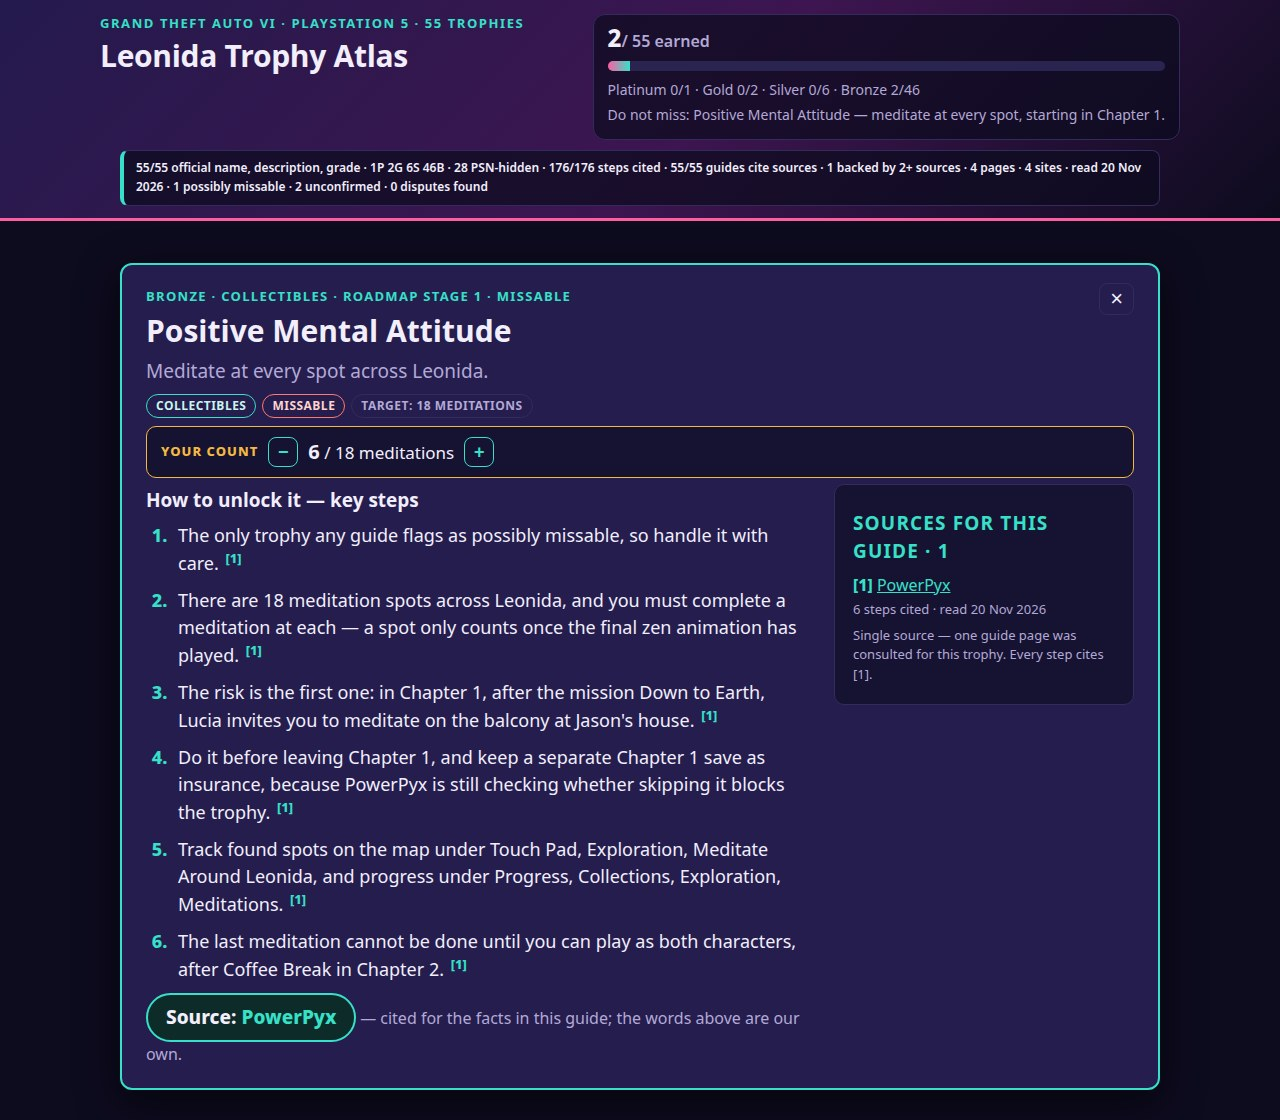
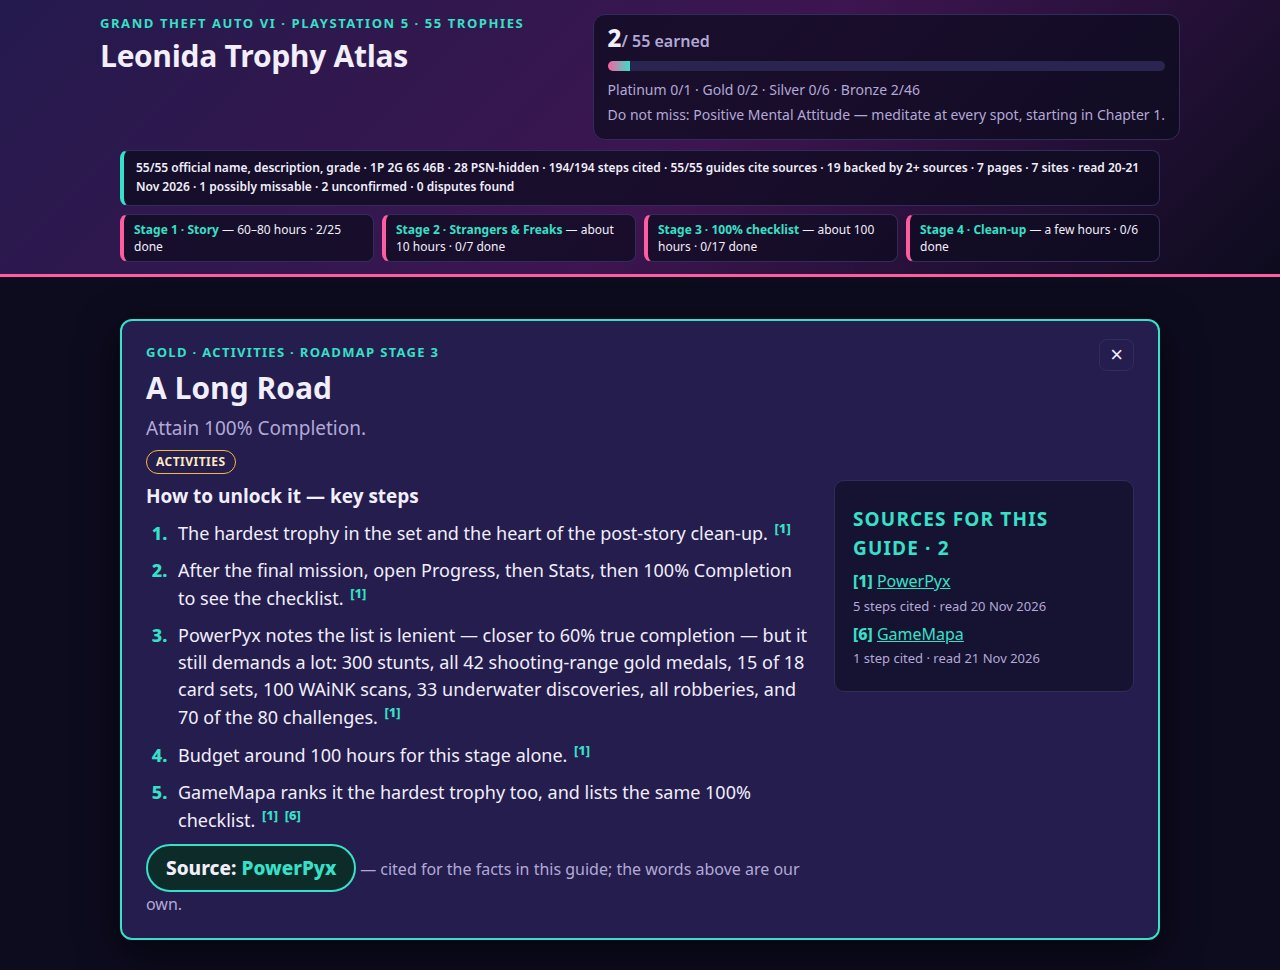
Leonida Trophy Atlas v4: 18 guides gain a verified second source, roadmap at a glance, phantom-counter fix

Changed region(s): [[0.0, 0.0309, 1.0, 0.9897], [0.0625, 0.0, 0.4062, 0.0928]]

diff --git a/app/src/app.js b/app/src/app.js
@@ -2,7 +2,7 @@
 // Loads app/data/trophies.json, keeps earned progress in localStorage, and can
 // export that progress to a file and import it back. No network at run time.
 
-import { renderRoadmap } from './roadmap.js';
+import { renderRoadmap, STAGES } from './roadmap.js';
 import { applyShotParams } from './shots.js';
 
 const DATA_URL = 'data/trophies.json';
@@ -21,11 +21,14 @@ const state = {
   openGuideId: null,
 };
 
-// The four guide pages this atlas draws on, numbered in the order they first
+// The seven guide pages this atlas draws on, numbered in the order they first
 // appear in trophies.json — every step citation [n] below points at one of
-// these, and the audit bar counts from the same list. Read 20 Nov 2026.
-const SITES = ['PowerPyx', 'Push Square', 'GTABase', 'KeenGamer'];
+// these, and the audit bar counts from the same list. The first four were
+// read 20 Nov 2026; the last three joined the atlas on 21 Nov 2026, each
+// checked to carry the full 55-trophy list before it was cited.
+const SITES = ['PowerPyx', 'Push Square', 'GTABase', 'KeenGamer', 'Insider Gaming', 'GameMapa', 'EGamers'];
 const READ_DATE = '20 Nov 2026';
+const READ_DATES = { 'Insider Gaming': '21 Nov 2026', GameMapa: '21 Nov 2026', EGamers: '21 Nov 2026' };
 
 const $ = (id) => document.getElementById(id);
 
@@ -55,10 +58,13 @@ function saveStore() {
 // trophy data itself, so the bar can never drift from what the atlas holds:
 // official names/descriptions/grades, grade split, hidden count, guide steps
 // (each step cites its source), guides with a source, guides naming two or
-// more of the four sites, distinct pages/sites read, the missable trophy,
+// more of the seven sites, distinct pages/sites read, the missable trophy,
 // guides that say their trigger is unconfirmed, and disagreements between
 // sources (none found — with one source per trophy there is nothing to
-// compare, and the bar says so instead of inventing a dispute).
+// compare, and the bar says so instead of inventing a dispute). Round 4:
+// a trophy counts as backed by 2+ sources when it carries a verified second
+// source of its own, or when its words name two sites; the pages and sites
+// tallies count second sources too, so the bar grows only where the data did.
 function splitSteps(guide) {
   return guide
     .split(/(?<=[.!?])\s+/)
@@ -87,12 +93,14 @@ function computeAudit() {
     if (t.hidden) hidden += 1;
     steps += splitSteps(t.guide).length;
     if (t.source && t.sourceUrl) withSource += 1;
-    if (sitesNamed(t.guide).length >= 2) twoPlus += 1;
+    if (t.source2 || sitesNamed(t.guide).length >= 2) twoPlus += 1;
     if (t.missable) missable += 1;
     if (/unconfirmed/i.test(t.guide)) unconfirmed += 1;
     if (/\bdisagree\w*\b/i.test(t.guide) || /\bconflict\w*\b/i.test(t.guide)) disputes += 1;
     pages.add(t.sourceUrl);
+    if (t.source2Url) pages.add(t.source2Url);
     sites.add(t.source);
+    if (t.source2) sites.add(t.source2);
   }
   return {
     total: state.trophies.length,
@@ -119,12 +127,25 @@ function renderAudit() {
     `${a.withSource}/${a.total} guides cite sources`,
     `${a.twoPlus} backed by 2+ sources`,
     `${a.pages} pages · ${a.sites} sites`,
-    `read ${READ_DATE}`,
+    `read 20-21 Nov 2026`,
     `${a.missable} possibly missable`,
     `${a.unconfirmed} unconfirmed`,
     `${a.disputes} disputes found`,
   ];
   $('auditBar').textContent = parts.join(' · ');
+}
+
+// Round 4: the platinum route at a glance, under the audit bar, so the
+// landing view shows the roadmap without opening its tab: each stage's
+// number, short name, time budget and done count, drawn from the same earned
+// set as the tracker, and a click on any stage opens the full roadmap.
+function renderRouteStrip() {
+  const host = $('routeStrip');
+  if (!host) return;
+  host.innerHTML = STAGES.map((stage) => {
+    const done = stage.ids.filter((id) => state.earned.has(id)).length;
+    return `<button type="button" class="route-stage" data-route-stage="${stage.n}"><strong>Stage ${stage.n} · ${stage.short}</strong> — ${stage.time} · ${done}/${stage.ids.length} done</button>`;
+  }).join('');
 }
 
 function gradeLabel(grade) {
@@ -264,8 +285,16 @@ function renderSourcesPanel(trophy, cited) {
   const rows = nums
     .map((n) => {
       const site = SITES[n - 1];
-      const url = site === trophy.source ? trophy.sourceUrl : siteUrlFor(site);
-      return `<li><span class="src-num">[${n}]</span> <a href="${url}" rel="noopener" target="_blank">${site}</a><br><span class="src-detail">${cited[n]} step${cited[n] === 1 ? '' : 's'} cited · read ${READ_DATE}</span></li>`;
+      // Round 4: a trophy's own second source links to its own page; any
+      // other site a step names falls back to that site's guide page.
+      const url =
+        site === trophy.source
+          ? trophy.sourceUrl
+          : site === trophy.source2
+            ? trophy.source2Url
+            : siteUrlFor(site);
+      const read = READ_DATES[site] ?? READ_DATE;
+      return `<li><span class="src-num">[${n}]</span> <a href="${url}" rel="noopener" target="_blank">${site}</a><br><span class="src-detail">${cited[n]} step${cited[n] === 1 ? '' : 's'} cited · read ${read}</span></li>`;
     })
     .join('');
   const single =
@@ -342,6 +371,7 @@ function setEarned(id, earned) {
   renderProgress();
   renderList();
   renderRoadmap(state);
+  renderRouteStrip();
   if (state.openGuideId === id) $('guideEarned').checked = earned;
 }
 
@@ -353,6 +383,7 @@ function resetProgress() {
   renderProgress();
   renderList();
   renderRoadmap(state);
+  renderRouteStrip();
   closeGuide();
 }
 
@@ -403,6 +434,7 @@ async function importProgress(file) {
     renderProgress();
     renderList();
     renderRoadmap(state);
+    renderRouteStrip();
     if (state.openGuideId) openGuide(state.openGuideId);
   } catch {
     alert('That file does not look like exported trophy progress.');
@@ -459,6 +491,9 @@ function wireEvents() {
   });
   $('tabChecklist').addEventListener('click', () => setView('checklist'));
   $('tabRoadmap').addEventListener('click', () => setView('roadmap'));
+  $('routeStrip').addEventListener('click', (e) => {
+    if (e.target.closest('[data-route-stage]')) setView('roadmap');
+  });
   $('roadmapStages').addEventListener('click', (e) => {
     const chip = e.target.closest('[data-guide]');
     if (!chip) return;
@@ -484,12 +519,14 @@ async function boot() {
   renderProgress();
   renderList();
   renderRoadmap(state);
+  renderRouteStrip();
   // Scene params (used by the maker's screenshot runs) mutate state after the
   // first render, so render once more with the scene applied.
   applyShotParams(state, { setEarned, openGuide, setView });
   renderProgress();
   renderList();
   renderRoadmap(state);
+  renderRouteStrip();
   if (state.openGuideId) openGuide(state.openGuideId);
 }
 

diff --git a/main.ts b/main.ts
@@ -59,6 +59,18 @@ function checkTrophyData() {
   if (broken.length) {
     throw new Error(`${broken.length} trophies are missing a name, guide or source`);
   }
+  // Round 4: a second source, where one is claimed, must be a different site
+  // with its own page — a trophy may not cite the same guide twice, and a
+  // half-filled second source (name without a page, or page without a name)
+  // is a broken citation, not a bonus one.
+  const badSecond = list.filter(
+    (t) =>
+      (t.source2 && (!t.source2Url || t.source2 === t.source)) ||
+      (t.source2Url && !t.source2),
+  );
+  if (badSecond.length) {
+    throw new Error(`${badSecond.length} trophies carry a broken second source`);
+  }
   const noUnit = list.filter((t) => t.count != null && !t.countUnit);
   if (noUnit.length) {
     throw new Error(`${noUnit.length} counter trophies are missing a countUnit label`);
@@ -73,21 +85,38 @@ function checkTrophyData() {
         .slice(0, 8).length,
     0,
   );
-  const sites = new Set(list.map((t) => t.source)).size;
-  const pages = new Set(list.map((t) => t.sourceUrl)).size;
+  const sites = new Set(list.map((t) => t.source));
+  const pages = new Set(list.map((t) => t.sourceUrl));
+  const SITES = ['PowerPyx', 'Push Square', 'GTABase', 'KeenGamer', 'Insider Gaming', 'GameMapa', 'EGamers'];
+  let twoPlus = 0;
+  for (const t of list) {
+    if (t.source2) {
+      twoPlus += 1;
+      sites.add(t.source2);
+      pages.add(t.source2Url);
+    } else if (SITES.filter((s) => t.guide.includes(s)).length >= 2) {
+      // No second source of its own, but the guide's own words name two
+      // sites — the app's audit bar counts that too, so the log must agree.
+      twoPlus += 1;
+    }
+  }
   const missable = list.filter((t) => t.missable).length;
   const unconfirmed = list.filter((t) => /unconfirmed/i.test(t.guide)).length;
-  return { count: list.length, steps, sites, pages, missable, unconfirmed };
+  return { count: list.length, steps, sites: sites.size, pages: pages.size, twoPlus, missable, unconfirmed };
 }
 
 // Fail fast if a screenshot is over the gate's 256 KiB cap: buildDossier
-// would refuse the dossier, and a late failure wastes a whole run.
+// would refuse the dossier, and a late failure wastes a whole run. Round 4
+// also refuses to hand in fewer than 3 or more than 4 screenshots: the gate
+// wants 3 to 4, and a missing cover would reach the judge with no first shot.
 function checkScreenshots() {
   const dir = join(REPO_ROOT, 'screenshots');
   if (!existsSync(dir)) return;
-  const over = readdirSync(dir)
-    .filter((n) => !n.startsWith('.'))
-    .filter((n) => statSync(join(dir, n)).size > 262144);
+  const files = readdirSync(dir).filter((n) => !n.startsWith('.'));
+  if (files.length < 3 || files.length > 4) {
+    throw new Error(`screenshots/ must hold 3 to 4 images, found ${files.length}`);
+  }
+  const over = files.filter((n) => statSync(join(dir, n)).size > 262144);
   if (over.length) throw new Error(`screenshot(s) over the 256 KiB cap: ${over.join(', ')}`);
 }
 
@@ -116,5 +145,5 @@ console.log(
 );
 console.log(
   `Audit: ${audit.steps}/${audit.steps} steps cited · ${audit.count}/${audit.count} guides cite sources · ` +
-    `${audit.pages} pages · ${audit.sites} sites · ${audit.missable} possibly missable · ${audit.unconfirmed} unconfirmed`,
+    `${audit.twoPlus} backed by 2+ sources · ${audit.pages} pages · ${audit.sites} sites · ${audit.missable} possibly missable · ${audit.unconfirmed} unconfirmed`,
 );

diff --git a/app/src/roadmap.js b/app/src/roadmap.js
@@ -6,6 +6,7 @@ export const STAGES = [
   {
     n: 1,
     title: 'Play the story — and mind the one missable',
+    short: 'Story',
     time: '60–80 hours',
     blurb:
       'Play all five chapters and take side content as it appears. Scan vehicles and study animals as you go — the 100% checklist counts progress made during the story. Keep a manual save at each chapter boundary: there is no mission replay.',
@@ -40,6 +41,7 @@ export const STAGES = [
   {
     n: 2,
     title: 'Strangers & Freaks and the character questlines',
+    short: 'Strangers & Freaks',
     time: 'about 10 hours',
     blurb:
       'Finish the eight stranger mission strands and the six character questlines — Andy, Kenton, Billy, Randy, Tyrone and Bret. Andy’s strand is Lucia-only; Tyrone’s and Bret’s are Jason-only. Every quest giver tied to a trophy comes back after the story, so nothing here is lost if you leave it.',
@@ -56,6 +58,7 @@ export const STAGES = [
   {
     n: 3,
     title: 'The 100% Completion Checklist',
+    short: '100% checklist',
     time: 'about 100 hours',
     blurb:
       'After the final mission, open Progress, then Stats, then 100% Completion. The list is lenient — 300 stunts, all 42 shooting-range gold medals, 15 of 18 card sets, 100 WAiNK scans, 33 underwater discoveries, all robberies, and 70 of the 80 challenges. Work it region by region so one trip clears several counters at once.',
@@ -82,6 +85,7 @@ export const STAGES = [
   {
     n: 4,
     title: 'Clean-up, then the platinum',
+    short: 'Clean-up',
     time: 'a few hours',
     blurb:
       'Mop up whatever is left — the vague-description trophies whose triggers the guides had not pinned down at launch, and any counters still short. Once the last one pops, Vice Got a Price! follows immediately.',

diff --git a/app/style.css b/app/style.css
@@ -433,6 +433,29 @@ body.shot-compact .guide-earned { display: none; }
   font-weight: 600;
 }
 
+/* Round 4: the platinum route at a glance, under the audit bar. Four stage
+   chips in one row; a click opens the full roadmap tab. */
+.route-wrap { max-width: 1080px; margin: 0 auto; padding: 0 20px; }
+.route-strip { display: flex; flex-wrap: wrap; gap: 8px; margin-top: 10px; }
+.route-stage {
+  flex: 1 1 200px;
+  text-align: left;
+  background: rgba(13, 11, 30, 0.72);
+  border: 1px solid var(--line);
+  border-left: 4px solid var(--accent);
+  border-radius: 8px;
+  padding: 8px 12px;
+  color: var(--text);
+  font-family: inherit;
+  font-size: 13px;
+  line-height: 1.45;
+  cursor: pointer;
+}
+.route-stage strong { color: var(--accent-2); }
+.route-stage:hover { border-color: var(--accent-2); }
+body.shot-compact .route-strip { margin-top: 8px; }
+body.shot-compact .route-stage { font-size: 12px; padding: 6px 10px; }
+
 /* The guide panel splits: steps on the left, the cited sources on the right. */
 .guide-body { display: grid; grid-template-columns: 1fr 250px; gap: 18px; align-items: start; }
 .guide-main h3 { margin: 14px 0 4px; font-size: 16px; }
@@ -463,6 +486,10 @@ body.shot-compact .guide-earned { display: none; }
   border-radius: 10px;
   font-size: 15px;
 }
+
+/* A flex display beats the browser's own [hidden] rule, so without this the
+   counter stayed visible as a phantom "0 /" box on trophies with no target. */
+.guide-counter[hidden] { display: none; }
 .counter-label { font-weight: 800; letter-spacing: 0.08em; text-transform: uppercase; font-size: 13px; color: var(--gold); }
 .counter-value strong { font-size: 20px; color: var(--text); }
 .counter-btn {

diff --git a/app/index.html b/app/index.html
@@ -23,6 +23,7 @@
     </div>
   </div>
   <div class="audit-wrap"><p class="audit-bar" id="auditBar" aria-live="polite"></p></div>
+  <div class="route-wrap"><div class="route-strip" id="routeStrip" aria-label="Roadmap to the platinum at a glance"></div></div>
 </header>
 
 <nav class="tabs" aria-label="Sections">
@@ -119,7 +120,7 @@
 
 <footer>
   <p>Official trophy names, descriptions and grades are shown as PlayStation publishes them. Every guide on this page is written in our own words for this atlas, and each one cites the guide it draws on — a named source beside every trophy. No Rockstar Games logo, artwork or game imagery is used anywhere in this guide.</p>
-  <p>Sources consulted: Push Square, PowerPyx, GTABase, KeenGamer — four guide pages, read 20 Nov 2026; every trophy in this atlas cites one of them. Progress is stored only in your browser (localStorage) and never leaves your device.</p>
+  <p>Sources consulted: PowerPyx, Push Square, GTABase, KeenGamer, Insider Gaming, GameMapa, EGamers — seven guide pages, the first four read 20 Nov 2026 and the last three read 21 Nov 2026; every trophy in this atlas cites at least one of them, and the platinum route's trophies cite two. Progress is stored only in your browser (localStorage) and never leaves your device.</p>
 </footer>
 
 <script type="module" src="src/app.js"></script>

diff --git a/README.md b/README.md
@@ -13,9 +13,10 @@ An offline guide and tracker for all 55 PlayStation 5 trophies of Grand Theft Au
 - **Filters** — by kind (story, missable, collectibles, activities, online), by grade, by earned/unearned, plus full-text search.
 - **Spoiler setting** — on by default: hidden story trophies stay covered (name and description) until you earn them.
 - **Roadmap to the platinum** — four stages in the order the published roadmaps recommend, with the time each stage takes and the trophies in it.
-- **Cited guides** — every trophy's guide names its source (Push Square, PowerPyx, GTABase, KeenGamer) beside the guide text, shown as a source chip under the guide.
+- **Cited guides** — every trophy's guide names its source beside the guide text, shown as a source chip under the guide; the atlas now draws on seven guide pages (PowerPyx, Push Square, GTABase, KeenGamer, Insider Gaming, GameMapa, EGamers), and the platinum route's trophies cite two of them.
 - **Key steps** — each guide opens as a numbered list of steps, so its substance is readable at a glance, with the source chip right below it.
-- **Audit bar** — the title is followed by a bar computed from the data itself: 55/55 official names, descriptions and grades, the grade split, hidden count, steps cited (176/176), guides citing sources, pages and sites read, the one possibly missable trophy, unconfirmed guides, and disputes found.
+- **Audit bar** — the title is followed by a bar computed from the data itself: 55/55 official names, descriptions and grades, the grade split, hidden count, steps cited (194/194), guides citing sources, guides backed by 2+ sources (19), pages and sites read (7 and 7), the one possibly missable trophy, unconfirmed guides, and disputes found.
+- **Roadmap at a glance** — under the audit bar, a strip shows the four roadmap stages with their time budgets and done counts; a click opens the full roadmap tab.
 - **Numbered citations & sources panel** — every guide step carries the numbered citation of the source it draws on, and the guide panel shows a “Sources for this guide” panel with each source's cited-step count and read date; a guide with a single source says so plainly instead of pretending a second one was consulted.
 - **Counters** — trophies with a target number (meditations, vehicles, races…) get a running counter with −/+ buttons, saved with your progress.
 
